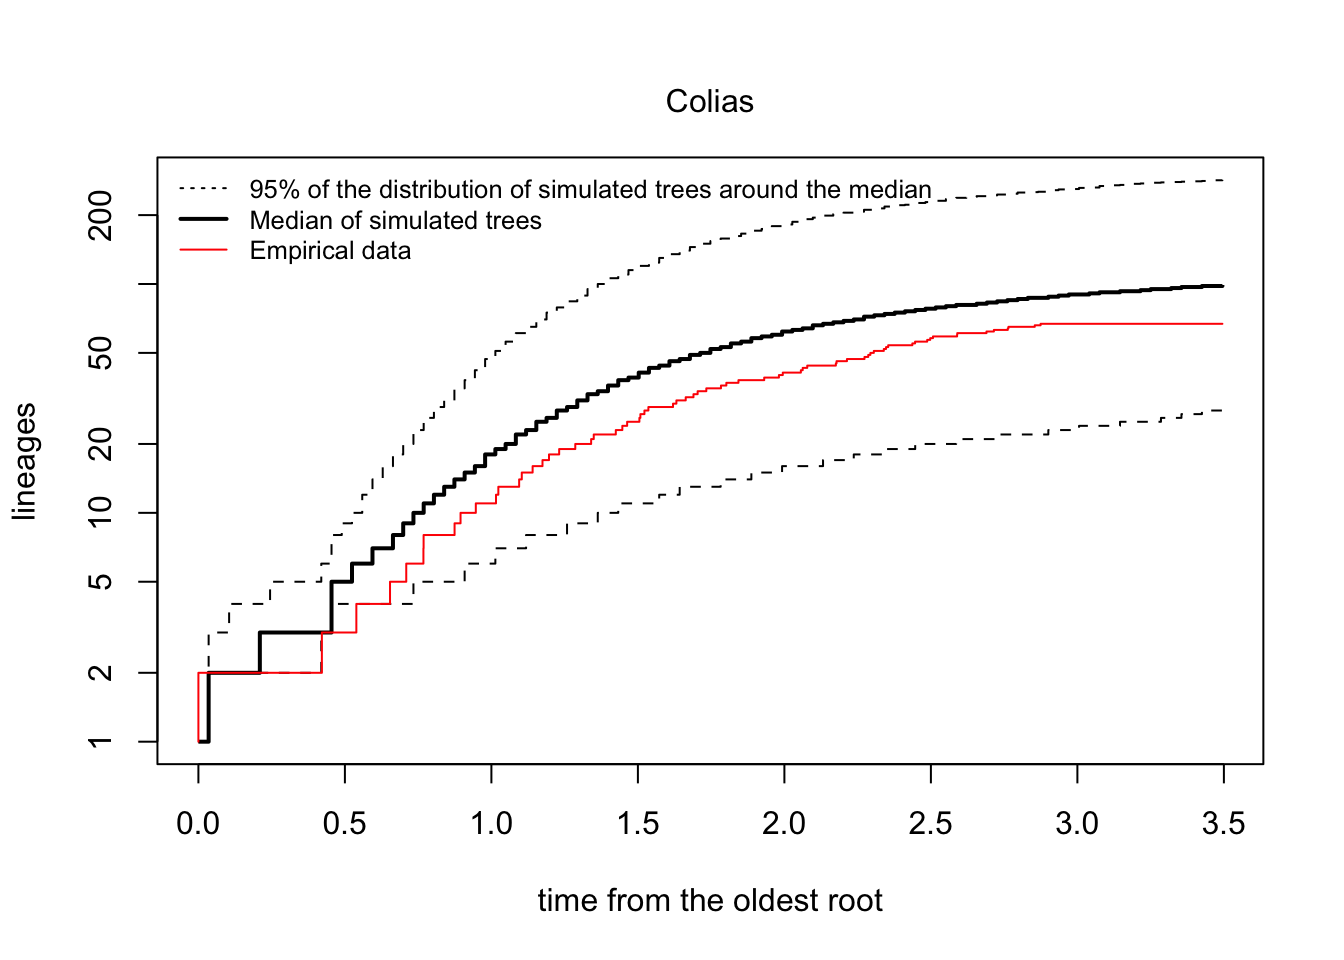
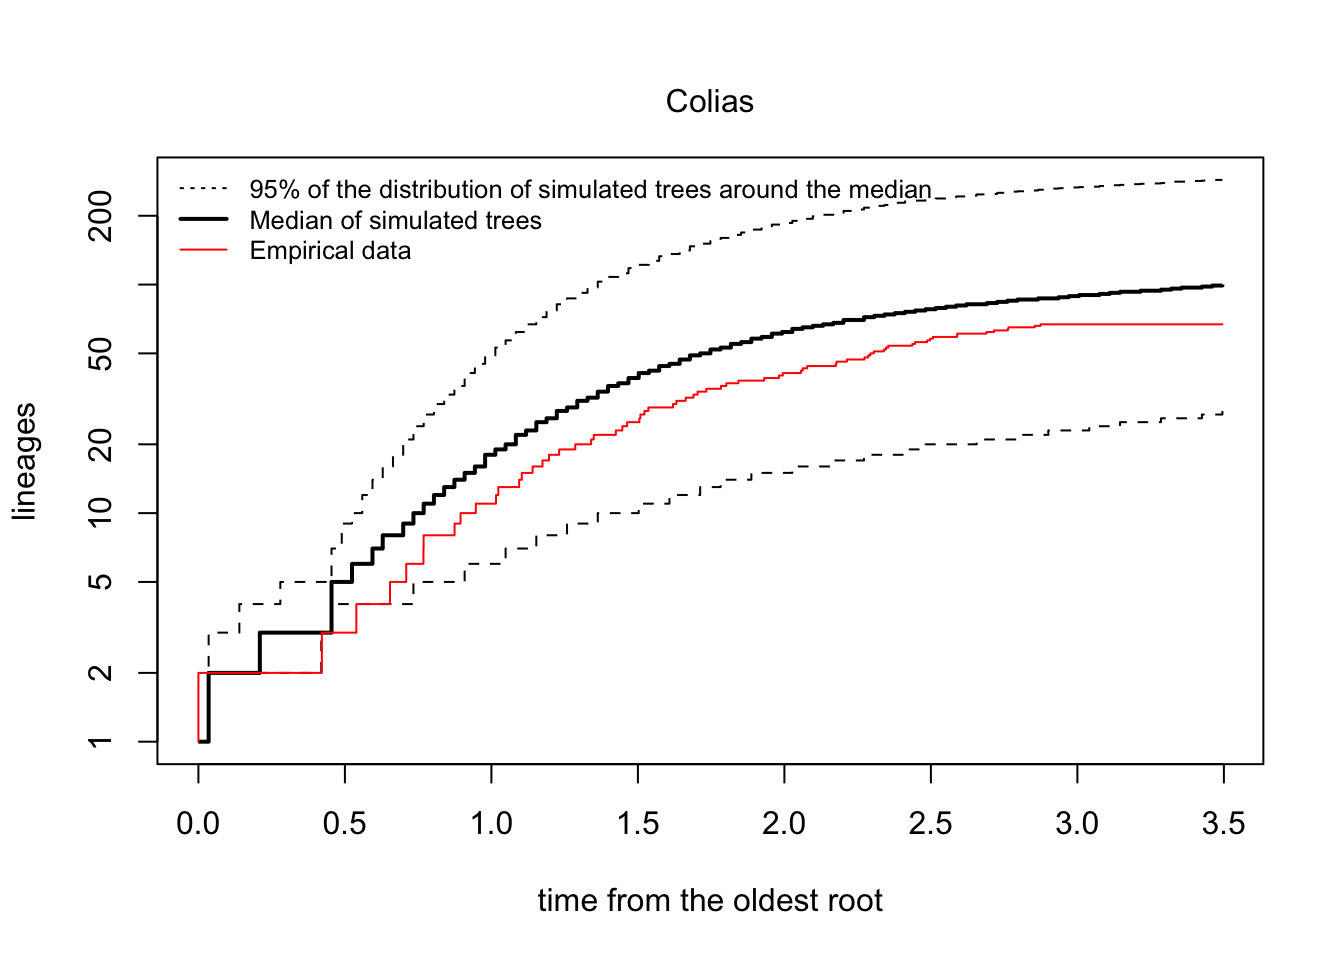
Add figures of second best model

diff --git a/diversification/Colias_RPanda.html b/diversification/Colias_RPanda.html
@@ -7,7 +7,7 @@
 <meta name="viewport" content="width=device-width, initial-scale=1.0, user-scalable=yes">
 
 <meta name="author" content="Mariana P Braga">
-<meta name="dcterms.date" content="2024-02-06">
+<meta name="dcterms.date" content="2024-02-07">
 
 <title>Colias diversification with RPanda</title>
 <style>
@@ -98,7 +98,7 @@ pre > code.sourceCode > span > a:first-child::before { text-decoration: underlin
     <div>
     <div class="quarto-title-meta-heading">Published</div>
     <div class="quarto-title-meta-contents">
-      <p class="date">February 6, 2024</p>
+      <p class="date">February 7, 2024</p>
     </div>
   </div>
   
@@ -786,7 +786,7 @@ Shifts grafting...
 <span id="cb23-12"><a href="#cb23-12" aria-hidden="true" tabindex="-1"></a><span class="fu">median</span>(ntip_by_groups_df<span class="sc">$</span>a)</span></code><button title="Copy to Clipboard" class="code-copy-button"><i class="bi"></i></button></pre></div>
 </details>
 <div class="cell-output cell-output-stdout">
-<pre><code>[1] 82</code></pre>
+<pre><code>[1] 81</code></pre>
 </div>
 <details open="">
 <summary>Show the code</summary>
@@ -804,9 +804,9 @@ Shifts grafting...
 </details>
 <div class="cell-output cell-output-stdout">
 <pre><code>     lower upper
-var1     6   230
+var1     6   234
 attr(,"Probability")
-[1] 0.9501027</code></pre>
+[1] 0.9499855</code></pre>
 </div>
 <details open="">
 <summary>Show the code</summary>
@@ -814,9 +814,9 @@ attr(,"Probability")
 </details>
 <div class="cell-output cell-output-stdout">
 <pre><code>     lower upper
-var1     5    37
+var1     5    35
 attr(,"Probability")
-[1] 0.9501027</code></pre>
+[1] 0.9499855</code></pre>
 </div>
 <details open="">
 <summary>Show the code</summary>
@@ -858,33 +858,103 @@ attr(,"Probability")
 <span id="cb34-11"><a href="#cb34-11" aria-hidden="true" tabindex="-1"></a>ltt95_CI <span class="ot">&lt;-</span> <span class="fu">ltt95</span>(posterior_trees_mp, <span class="at">log =</span> T, <span class="at">las =</span> <span class="dv">1</span>) </span>
 <span id="cb34-12"><a href="#cb34-12" aria-hidden="true" tabindex="-1"></a><span class="fu">lines</span>(ltt_colias_df<span class="sc">$</span>times, ltt_colias_df<span class="sc">$</span>ltt, <span class="at">type =</span> <span class="st">"s"</span>, <span class="at">col =</span> <span class="st">"red"</span>) </span>
 <span id="cb34-13"><a href="#cb34-13" aria-hidden="true" tabindex="-1"></a><span class="fu">mtext</span>(<span class="at">text =</span> <span class="st">"Colias"</span>, <span class="at">side =</span> <span class="dv">3</span>, <span class="at">line =</span> <span class="dv">1</span>)</span>
-<span id="cb34-14"><a href="#cb34-14" aria-hidden="true" tabindex="-1"></a></span>
-<span id="cb34-15"><a href="#cb34-15" aria-hidden="true" tabindex="-1"></a>ltt95_CI_df <span class="ot">&lt;-</span> <span class="fu">as.data.frame</span>(ltt95_CI[,<span class="fu">c</span>(<span class="st">"time"</span>, <span class="st">"low(lineages)"</span>, <span class="st">"high(lineages)"</span>)])</span>
-<span id="cb34-16"><a href="#cb34-16" aria-hidden="true" tabindex="-1"></a></span>
-<span id="cb34-17"><a href="#cb34-17" aria-hidden="true" tabindex="-1"></a>ltt95_CI_df<span class="sc">$</span>time <span class="ot">&lt;-</span> <span class="fu">round</span>(ltt95_CI_df<span class="sc">$</span>time, <span class="dv">4</span>)</span>
-<span id="cb34-18"><a href="#cb34-18" aria-hidden="true" tabindex="-1"></a></span>
-<span id="cb34-19"><a href="#cb34-19" aria-hidden="true" tabindex="-1"></a>points_in_colias <span class="ot">&lt;-</span> <span class="fu">c</span>() </span>
-<span id="cb34-20"><a href="#cb34-20" aria-hidden="true" tabindex="-1"></a><span class="cf">for</span>(i <span class="cf">in</span> <span class="dv">1</span><span class="sc">:</span><span class="fu">nrow</span>(ltt_colias_df)){</span>
-<span id="cb34-21"><a href="#cb34-21" aria-hidden="true" tabindex="-1"></a>  int_max <span class="ot">&lt;-</span> <span class="fu">sort</span>(ltt95_CI_df<span class="sc">$</span>time[ ltt95_CI_df<span class="sc">$</span>time <span class="sc">&gt;=</span> ltt_colias_df<span class="sc">$</span>times[i]][<span class="dv">1</span>]) </span>
-<span id="cb34-22"><a href="#cb34-22" aria-hidden="true" tabindex="-1"></a>  int_min <span class="ot">&lt;-</span> <span class="fu">sort</span>(ltt95_CI_df<span class="sc">$</span>time[ltt95_CI_df<span class="sc">$</span>time <span class="sc">&lt;=</span> ltt_colias_df<span class="sc">$</span>times[i]],</span>
-<span id="cb34-23"><a href="#cb34-23" aria-hidden="true" tabindex="-1"></a>                  <span class="at">decreasing =</span> T)[<span class="dv">1</span>] </span>
-<span id="cb34-24"><a href="#cb34-24" aria-hidden="true" tabindex="-1"></a>  ltt_min <span class="ot">&lt;-</span> ltt95_CI_df<span class="sc">$</span><span class="st">`</span><span class="at">low(lineages)</span><span class="st">`</span>[ltt95_CI_df<span class="sc">$</span>time <span class="sc">==</span> int_min] </span>
-<span id="cb34-25"><a href="#cb34-25" aria-hidden="true" tabindex="-1"></a>  ltt_max <span class="ot">&lt;-</span> ltt95_CI_df<span class="sc">$</span><span class="st">`</span><span class="at">high(lineages)</span><span class="st">`</span>[ltt95_CI_df<span class="sc">$</span>time <span class="sc">==</span> int_max]</span>
-<span id="cb34-26"><a href="#cb34-26" aria-hidden="true" tabindex="-1"></a>  points_in_colias[i] <span class="ot">&lt;-</span> <span class="fu">ifelse</span>(ltt_min <span class="sc">&lt;=</span> ltt_colias_df<span class="sc">$</span>ltt[i] <span class="sc">&amp;</span> </span>
-<span id="cb34-27"><a href="#cb34-27" aria-hidden="true" tabindex="-1"></a>                                   ltt_colias_df<span class="sc">$</span>ltt[i] <span class="sc">&lt;=</span> ltt_max, T, F)</span>
-<span id="cb34-28"><a href="#cb34-28" aria-hidden="true" tabindex="-1"></a>} </span>
-<span id="cb34-29"><a href="#cb34-29" aria-hidden="true" tabindex="-1"></a></span>
-<span id="cb34-30"><a href="#cb34-30" aria-hidden="true" tabindex="-1"></a><span class="fu">legend</span>(<span class="st">"topleft"</span>, <span class="at">legend =</span> <span class="fu">c</span>(<span class="st">"95% of the distribution of simulated trees around the median"</span>, <span class="st">"Median of simulated trees"</span>, <span class="st">"Empirical data"</span>), <span class="at">lty =</span> <span class="fu">c</span>(<span class="dv">3</span>,<span class="dv">1</span>,<span class="dv">1</span>), <span class="at">lwd =</span> <span class="fu">c</span>(<span class="dv">1</span>,<span class="dv">2</span>,<span class="dv">1</span>), <span class="at">col =</span> <span class="fu">c</span>(<span class="st">"black"</span>,<span class="st">"black"</span>,<span class="st">"red"</span>), <span class="at">bty =</span> <span class="st">"n"</span>, <span class="at">cex =</span> <span class="fl">0.8</span>)</span></code><button title="Copy to Clipboard" class="code-copy-button"><i class="bi"></i></button></pre></div>
+<span id="cb34-14"><a href="#cb34-14" aria-hidden="true" tabindex="-1"></a><span class="fu">legend</span>(<span class="st">"topleft"</span>, <span class="at">legend =</span> <span class="fu">c</span>(<span class="st">"95% of the distribution of simulated trees around the median"</span>, <span class="st">"Median of simulated trees"</span>, <span class="st">"Empirical data"</span>), <span class="at">lty =</span> <span class="fu">c</span>(<span class="dv">3</span>,<span class="dv">1</span>,<span class="dv">1</span>), <span class="at">lwd =</span> <span class="fu">c</span>(<span class="dv">1</span>,<span class="dv">2</span>,<span class="dv">1</span>), <span class="at">col =</span> <span class="fu">c</span>(<span class="st">"black"</span>,<span class="st">"black"</span>,<span class="st">"red"</span>), <span class="at">bty =</span> <span class="st">"n"</span>, <span class="at">cex =</span> <span class="fl">0.8</span>)</span></code><button title="Copy to Clipboard" class="code-copy-button"><i class="bi"></i></button></pre></div>
 </details>
 <div class="cell-output-display">
 <p><img src="Colias_RPanda_files/figure-html/unnamed-chunk-8-1.png" class="img-fluid" width="672"></p>
 </div>
 <details open="">
 <summary>Show the code</summary>
-<div class="sourceCode cell-code" id="cb35"><pre class="sourceCode r code-with-copy"><code class="sourceCode r"><span id="cb35-1"><a href="#cb35-1" aria-hidden="true" tabindex="-1"></a><span class="fu">sum</span>(points_in_colias)<span class="sc">/</span><span class="fu">length</span>(points_in_colias)</span></code><button title="Copy to Clipboard" class="code-copy-button"><i class="bi"></i></button></pre></div>
+<div class="sourceCode cell-code" id="cb35"><pre class="sourceCode r code-with-copy"><code class="sourceCode r"><span id="cb35-1"><a href="#cb35-1" aria-hidden="true" tabindex="-1"></a>ltt95_CI_df <span class="ot">&lt;-</span> <span class="fu">as.data.frame</span>(ltt95_CI[,<span class="fu">c</span>(<span class="st">"time"</span>, <span class="st">"low(lineages)"</span>, <span class="st">"high(lineages)"</span>)])</span>
+<span id="cb35-2"><a href="#cb35-2" aria-hidden="true" tabindex="-1"></a>ltt95_CI_df<span class="sc">$</span>time <span class="ot">&lt;-</span> <span class="fu">round</span>(ltt95_CI_df<span class="sc">$</span>time, <span class="dv">4</span>)</span>
+<span id="cb35-3"><a href="#cb35-3" aria-hidden="true" tabindex="-1"></a></span>
+<span id="cb35-4"><a href="#cb35-4" aria-hidden="true" tabindex="-1"></a>points_in_colias <span class="ot">&lt;-</span> <span class="fu">c</span>() </span>
+<span id="cb35-5"><a href="#cb35-5" aria-hidden="true" tabindex="-1"></a><span class="cf">for</span>(i <span class="cf">in</span> <span class="dv">1</span><span class="sc">:</span><span class="fu">nrow</span>(ltt_colias_df)){</span>
+<span id="cb35-6"><a href="#cb35-6" aria-hidden="true" tabindex="-1"></a>  int_max <span class="ot">&lt;-</span> <span class="fu">sort</span>(ltt95_CI_df<span class="sc">$</span>time[ ltt95_CI_df<span class="sc">$</span>time <span class="sc">&gt;=</span> ltt_colias_df<span class="sc">$</span>times[i]][<span class="dv">1</span>]) </span>
+<span id="cb35-7"><a href="#cb35-7" aria-hidden="true" tabindex="-1"></a>  int_min <span class="ot">&lt;-</span> <span class="fu">sort</span>(ltt95_CI_df<span class="sc">$</span>time[ltt95_CI_df<span class="sc">$</span>time <span class="sc">&lt;=</span> ltt_colias_df<span class="sc">$</span>times[i]],</span>
+<span id="cb35-8"><a href="#cb35-8" aria-hidden="true" tabindex="-1"></a>                  <span class="at">decreasing =</span> T)[<span class="dv">1</span>] </span>
+<span id="cb35-9"><a href="#cb35-9" aria-hidden="true" tabindex="-1"></a>  ltt_min <span class="ot">&lt;-</span> ltt95_CI_df<span class="sc">$</span><span class="st">`</span><span class="at">low(lineages)</span><span class="st">`</span>[ltt95_CI_df<span class="sc">$</span>time <span class="sc">==</span> int_min] </span>
+<span id="cb35-10"><a href="#cb35-10" aria-hidden="true" tabindex="-1"></a>  ltt_max <span class="ot">&lt;-</span> ltt95_CI_df<span class="sc">$</span><span class="st">`</span><span class="at">high(lineages)</span><span class="st">`</span>[ltt95_CI_df<span class="sc">$</span>time <span class="sc">==</span> int_max]</span>
+<span id="cb35-11"><a href="#cb35-11" aria-hidden="true" tabindex="-1"></a>  points_in_colias[i] <span class="ot">&lt;-</span> <span class="fu">ifelse</span>(ltt_min <span class="sc">&lt;=</span> ltt_colias_df<span class="sc">$</span>ltt[i] <span class="sc">&amp;</span> </span>
+<span id="cb35-12"><a href="#cb35-12" aria-hidden="true" tabindex="-1"></a>                                   ltt_colias_df<span class="sc">$</span>ltt[i] <span class="sc">&lt;=</span> ltt_max, T, F)</span>
+<span id="cb35-13"><a href="#cb35-13" aria-hidden="true" tabindex="-1"></a>} </span>
+<span id="cb35-14"><a href="#cb35-14" aria-hidden="true" tabindex="-1"></a></span>
+<span id="cb35-15"><a href="#cb35-15" aria-hidden="true" tabindex="-1"></a><span class="fu">sum</span>(points_in_colias)<span class="sc">/</span><span class="fu">length</span>(points_in_colias)</span></code><button title="Copy to Clipboard" class="code-copy-button"><i class="bi"></i></button></pre></div>
 </details>
 <div class="cell-output cell-output-stdout">
 <pre><code>[1] 0.9852941</code></pre>
+</div>
+</div>
+<p>All figures for second best model</p>
+<div class="cell">
+<details open="">
+<summary>Show the code</summary>
+<div class="sourceCode cell-code" id="cb37"><pre class="sourceCode r code-with-copy"><code class="sourceCode r"><span id="cb37-1"><a href="#cb37-1" aria-hidden="true" tabindex="-1"></a>rates2 <span class="ot">&lt;-</span> <span class="fu">div.rates</span>(<span class="at">phylo =</span> tree,</span>
+<span id="cb37-2"><a href="#cb37-2" aria-hidden="true" tabindex="-1"></a>                   <span class="at">shift.res =</span> shifts,</span>
+<span id="cb37-3"><a href="#cb37-3" aria-hidden="true" tabindex="-1"></a>                   <span class="at">time.interval =</span> <span class="fl">0.1</span>,</span>
+<span id="cb37-4"><a href="#cb37-4" aria-hidden="true" tabindex="-1"></a>                   <span class="at">combi =</span> <span class="dv">2</span>, </span>
+<span id="cb37-5"><a href="#cb37-5" aria-hidden="true" tabindex="-1"></a>                   <span class="at">part =</span> <span class="st">"all"</span>)</span>
+<span id="cb37-6"><a href="#cb37-6" aria-hidden="true" tabindex="-1"></a></span>
+<span id="cb37-7"><a href="#cb37-7" aria-hidden="true" tabindex="-1"></a></span>
+<span id="cb37-8"><a href="#cb37-8" aria-hidden="true" tabindex="-1"></a>paleodiversity2 <span class="ot">&lt;-</span> <span class="fu">paleodiv</span>(<span class="at">phylo =</span> tree,</span>
+<span id="cb37-9"><a href="#cb37-9" aria-hidden="true" tabindex="-1"></a>                           <span class="at">data =</span> groups,</span>
+<span id="cb37-10"><a href="#cb37-10" aria-hidden="true" tabindex="-1"></a>                           <span class="at">sampling.fractions =</span> sfrac,</span>
+<span id="cb37-11"><a href="#cb37-11" aria-hidden="true" tabindex="-1"></a>                           <span class="at">time.interval =</span> <span class="fl">0.1</span>,</span>
+<span id="cb37-12"><a href="#cb37-12" aria-hidden="true" tabindex="-1"></a>                           <span class="at">shift.res =</span> shifts,</span>
+<span id="cb37-13"><a href="#cb37-13" aria-hidden="true" tabindex="-1"></a>                           <span class="at">split.div =</span> <span class="cn">TRUE</span>,</span>
+<span id="cb37-14"><a href="#cb37-14" aria-hidden="true" tabindex="-1"></a>                           <span class="at">combi =</span> <span class="dv">2</span>)</span>
+<span id="cb37-15"><a href="#cb37-15" aria-hidden="true" tabindex="-1"></a></span>
+<span id="cb37-16"><a href="#cb37-16" aria-hidden="true" tabindex="-1"></a>df_paleo2 <span class="ot">&lt;-</span> <span class="fu">as.data.frame</span>(paleodiversity2) <span class="sc">%&gt;%</span> </span>
+<span id="cb37-17"><a href="#cb37-17" aria-hidden="true" tabindex="-1"></a>  <span class="fu">t</span>() <span class="sc">%&gt;%</span> </span>
+<span id="cb37-18"><a href="#cb37-18" aria-hidden="true" tabindex="-1"></a>  <span class="fu">as_tibble</span>() <span class="sc">%&gt;%</span> </span>
+<span id="cb37-19"><a href="#cb37-19" aria-hidden="true" tabindex="-1"></a>  <span class="fu">mutate</span>(<span class="at">time =</span> time, <span class="at">.before =</span> <span class="dv">1</span>) <span class="sc">%&gt;%</span> </span>
+<span id="cb37-20"><a href="#cb37-20" aria-hidden="true" tabindex="-1"></a>  <span class="fu">rename</span>(<span class="at">Nearctic_expansion =</span> <span class="st">'117'</span>, <span class="at">Northern_hemisphere =</span> <span class="st">'Backbone of 75'</span>, <span class="at">Neotropics =</span> <span class="st">'Deep backbone'</span>) <span class="sc">%&gt;%</span> </span>
+<span id="cb37-21"><a href="#cb37-21" aria-hidden="true" tabindex="-1"></a>  <span class="fu">pivot_longer</span>(<span class="dv">2</span><span class="sc">:</span><span class="dv">4</span>, <span class="at">names_to =</span> <span class="st">"clade"</span>, <span class="at">values_to =</span> <span class="st">"richness"</span>) <span class="sc">%&gt;%</span> </span>
+<span id="cb37-22"><a href="#cb37-22" aria-hidden="true" tabindex="-1"></a>  <span class="fu">mutate</span>(<span class="at">Clade =</span> <span class="fu">factor</span>(clade, <span class="at">levels =</span> <span class="fu">c</span>(<span class="st">"Nearctic_expansion"</span>, <span class="st">"Northern_hemisphere"</span>, <span class="st">"Neotropics"</span>)))</span>
+<span id="cb37-23"><a href="#cb37-23" aria-hidden="true" tabindex="-1"></a></span>
+<span id="cb37-24"><a href="#cb37-24" aria-hidden="true" tabindex="-1"></a>group_colors2 <span class="ot">&lt;-</span> <span class="fu">c</span>(<span class="st">"#DA3541"</span>, <span class="st">"#6E4672"</span>, <span class="st">"#FF8C01"</span>)</span>
+<span id="cb37-25"><a href="#cb37-25" aria-hidden="true" tabindex="-1"></a></span>
+<span id="cb37-26"><a href="#cb37-26" aria-hidden="true" tabindex="-1"></a><span class="co"># Phylogeny with shifts </span></span>
+<span id="cb37-27"><a href="#cb37-27" aria-hidden="true" tabindex="-1"></a><span class="fu">plot.phylo.comb</span>(<span class="at">phylo =</span> tree, <span class="at">data =</span> groups, <span class="at">sampling.fractions =</span> sfrac, <span class="at">shift.res =</span> shifts, <span class="at">combi =</span> <span class="dv">2</span>, <span class="at">label.offset =</span> <span class="fl">0.1</span>, <span class="at">cex =</span> <span class="fl">0.7</span>, <span class="at">lad =</span> F,</span>
+<span id="cb37-28"><a href="#cb37-28" aria-hidden="true" tabindex="-1"></a>                <span class="at">col.sub =</span> group_colors2[<span class="dv">1</span>], <span class="at">col.bck =</span> group_colors2[<span class="dv">2</span><span class="sc">:</span><span class="dv">3</span>], <span class="at">edge.width =</span> <span class="dv">2</span>) </span>
+<span id="cb37-29"><a href="#cb37-29" aria-hidden="true" tabindex="-1"></a><span class="fu">axisPhylo</span>() </span>
+<span id="cb37-30"><a href="#cb37-30" aria-hidden="true" tabindex="-1"></a><span class="fu">mtext</span>(<span class="st">"Time (Ma)"</span>, <span class="at">side =</span> <span class="dv">1</span>, <span class="at">line =</span> <span class="dv">2</span>, <span class="at">cex =</span> <span class="dv">1</span>, <span class="at">at =</span> <span class="fl">1.75</span>)</span></code><button title="Copy to Clipboard" class="code-copy-button"><i class="bi"></i></button></pre></div>
+</details>
+<div class="cell-output-display">
+<p><img src="Colias_RPanda_files/figure-html/unnamed-chunk-9-1.png" class="img-fluid" width="672"></p>
+</div>
+<details open="">
+<summary>Show the code</summary>
+<div class="sourceCode cell-code" id="cb38"><pre class="sourceCode r code-with-copy"><code class="sourceCode r"><span id="cb38-1"><a href="#cb38-1" aria-hidden="true" tabindex="-1"></a>p12 <span class="ot">&lt;-</span> <span class="fu">recordPlot</span>()</span>
+<span id="cb38-2"><a href="#cb38-2" aria-hidden="true" tabindex="-1"></a></span>
+<span id="cb38-3"><a href="#cb38-3" aria-hidden="true" tabindex="-1"></a><span class="co"># Rates through time </span></span>
+<span id="cb38-4"><a href="#cb38-4" aria-hidden="true" tabindex="-1"></a><span class="fu">plot</span>(time, rates2[[<span class="dv">3</span>]][<span class="dv">1</span>,], <span class="at">type =</span> <span class="st">"l"</span>, <span class="at">ylim =</span> <span class="fu">c</span>(<span class="dv">0</span>, <span class="fl">5.5</span>), <span class="at">col =</span> group_colors2[<span class="dv">3</span>], <span class="at">las =</span> <span class="dv">1</span>, <span class="at">xlab =</span> <span class="st">"Time (Myrs)"</span>, </span>
+<span id="cb38-5"><a href="#cb38-5" aria-hidden="true" tabindex="-1"></a>     <span class="at">ylab =</span> <span class="st">"Rates (Events/ Lineages / Myr)"</span>, <span class="at">main =</span> <span class="st">"Diversification rates per clade"</span>)</span>
+<span id="cb38-6"><a href="#cb38-6" aria-hidden="true" tabindex="-1"></a><span class="fu">lines</span>(time, rates2[[<span class="dv">2</span>]][<span class="dv">1</span>,], <span class="at">col =</span> group_colors2[<span class="dv">2</span>]) </span>
+<span id="cb38-7"><a href="#cb38-7" aria-hidden="true" tabindex="-1"></a><span class="fu">lines</span>(time, rates2[[<span class="dv">1</span>]][<span class="dv">1</span>,], <span class="at">col =</span> group_colors2[<span class="dv">1</span>]) </span></code><button title="Copy to Clipboard" class="code-copy-button"><i class="bi"></i></button></pre></div>
+</details>
+<div class="cell-output-display">
+<p><img src="Colias_RPanda_files/figure-html/unnamed-chunk-9-2.png" class="img-fluid" width="672"></p>
+</div>
+<details open="">
+<summary>Show the code</summary>
+<div class="sourceCode cell-code" id="cb39"><pre class="sourceCode r code-with-copy"><code class="sourceCode r"><span id="cb39-1"><a href="#cb39-1" aria-hidden="true" tabindex="-1"></a>p22 <span class="ot">&lt;-</span> <span class="fu">recordPlot</span>()</span>
+<span id="cb39-2"><a href="#cb39-2" aria-hidden="true" tabindex="-1"></a></span>
+<span id="cb39-3"><a href="#cb39-3" aria-hidden="true" tabindex="-1"></a><span class="co"># Paleodiversity dynamics </span></span>
+<span id="cb39-4"><a href="#cb39-4" aria-hidden="true" tabindex="-1"></a>paleo_plot2 <span class="ot">&lt;-</span> <span class="fu">ggplot</span>(df_paleo2, <span class="fu">aes</span>(time, richness, <span class="at">fill =</span> Clade, <span class="at">col =</span> Clade)) <span class="sc">+</span> </span>
+<span id="cb39-5"><a href="#cb39-5" aria-hidden="true" tabindex="-1"></a>  <span class="fu">geom_area</span>(<span class="at">alpha =</span> <span class="fl">0.5</span>) <span class="sc">+</span></span>
+<span id="cb39-6"><a href="#cb39-6" aria-hidden="true" tabindex="-1"></a>  <span class="fu">scale_fill_manual</span>(<span class="at">values =</span> group_colors2) <span class="sc">+</span></span>
+<span id="cb39-7"><a href="#cb39-7" aria-hidden="true" tabindex="-1"></a>  <span class="fu">scale_color_manual</span>(<span class="at">values =</span> group_colors2) <span class="sc">+</span></span>
+<span id="cb39-8"><a href="#cb39-8" aria-hidden="true" tabindex="-1"></a>  <span class="fu">labs</span>(<span class="at">y =</span> <span class="st">"Number of species"</span>, <span class="at">x =</span> <span class="st">"Time (Ma)"</span>) <span class="sc">+</span></span>
+<span id="cb39-9"><a href="#cb39-9" aria-hidden="true" tabindex="-1"></a>  <span class="fu">theme_bw</span>() <span class="sc">+</span></span>
+<span id="cb39-10"><a href="#cb39-10" aria-hidden="true" tabindex="-1"></a>  <span class="fu">theme</span>(<span class="at">legend.position =</span> <span class="st">"bottom"</span>)</span>
+<span id="cb39-11"><a href="#cb39-11" aria-hidden="true" tabindex="-1"></a></span>
+<span id="cb39-12"><a href="#cb39-12" aria-hidden="true" tabindex="-1"></a>p32 <span class="ot">&lt;-</span> <span class="fu">plot_grid</span>(p22, paleo_plot2, <span class="at">nrow =</span> <span class="dv">2</span>)</span>
+<span id="cb39-13"><a href="#cb39-13" aria-hidden="true" tabindex="-1"></a>p42 <span class="ot">&lt;-</span> <span class="fu">plot_grid</span>(p12, p32, <span class="at">ncol =</span> <span class="dv">2</span>)</span>
+<span id="cb39-14"><a href="#cb39-14" aria-hidden="true" tabindex="-1"></a>p42</span></code><button title="Copy to Clipboard" class="code-copy-button"><i class="bi"></i></button></pre></div>
+</details>
+<div class="cell-output-display">
+<p><img src="Colias_RPanda_files/figure-html/unnamed-chunk-9-3.png" class="img-fluid" width="672"></p>
 </div>
 </div>
 </section>
